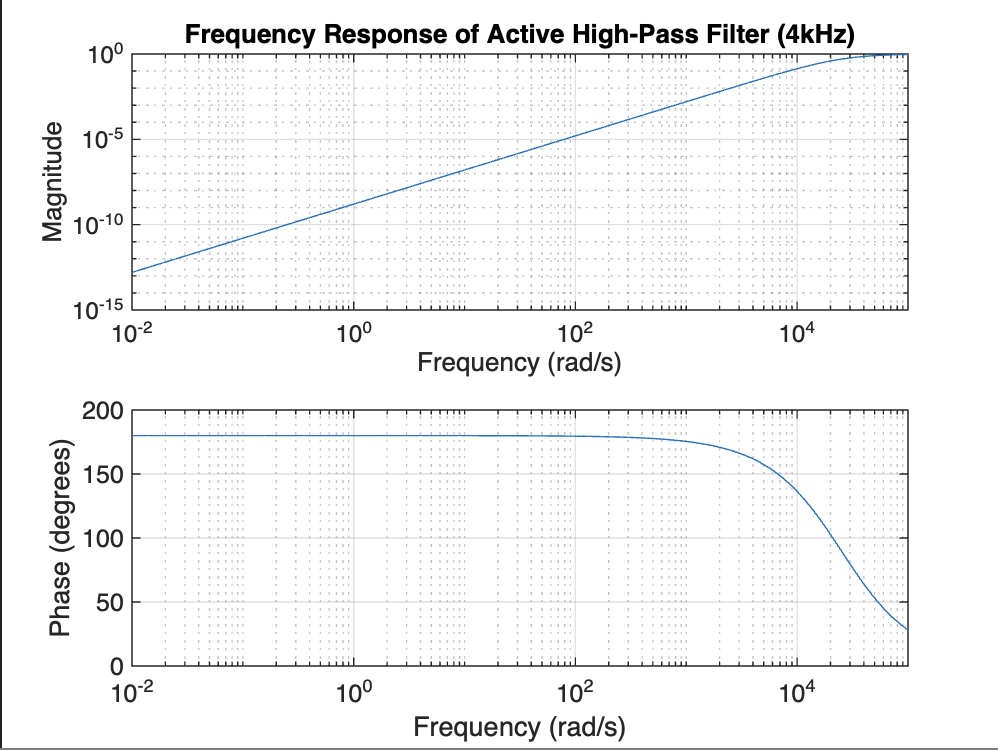
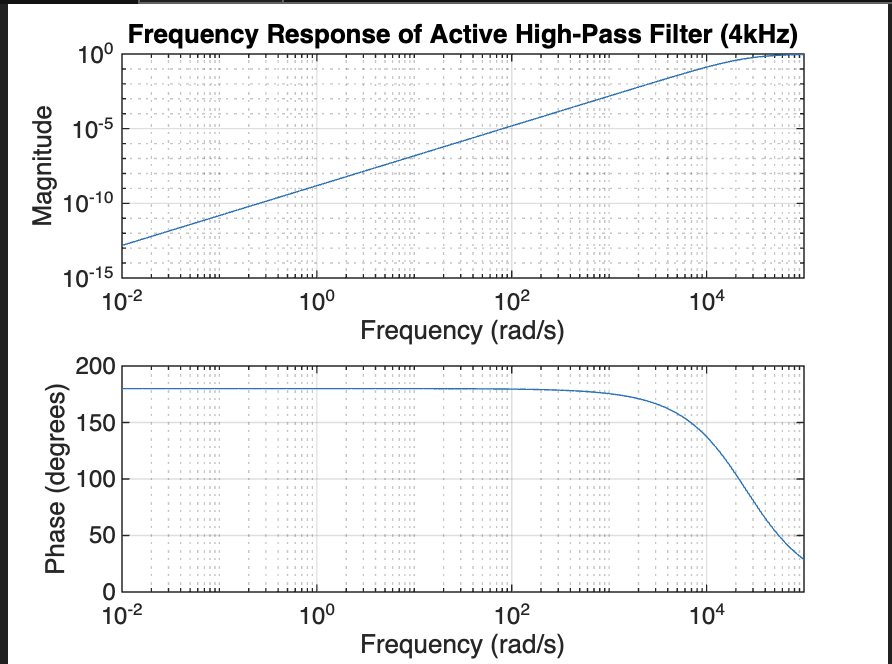
Change R1 & R2 in HPF due to  Lab equipment

diff --git a/Active-High-Pass-Filter/hpf.m b/Active-High-Pass-Filter/hpf.m
@@ -3,8 +3,8 @@ clear;
 close all;
 
 
-R1 = 400;   % 400Ω
-R2 = 400;   % 400Ω
+R1 = 390;   % 390Ω
+R2 = 390;   % 390Ω
 R3 = 10e3;  % 10kΩ (For Op-Amp feedback)
 R4 = 10e3;  % 10kΩ (For Op-Amp feedback)
 C1 = 0.1e-6; % 0.1µF (100nF)
@@ -24,7 +24,7 @@ bode(H);
 grid on;
 title('Bode Plot of Active High-Pass Filter (4kHz)');
 
-% Frequency Response (Magnitude Plot)
+%  (Magnitude Plot)
 figure;
 freqs([R1 * R2 * C1 * C2, 0, 0], [R1 * R2 * C1 * C2, (R1 + R2) * C1, 1]);
 grid on;

diff --git a/Active-High-Pass-Filter/README.md b/Active-High-Pass-Filter/README.md
@@ -8,8 +8,8 @@ clear;
 close all;
 
 
-R1 = 400;   % 400Ω
-R2 = 400;   % 400Ω
+R1 = 390;   % 390Ω
+R2 = 390;   % 390Ω
 R3 = 10e3;  % 10kΩ (For Op-Amp feedback)
 R4 = 10e3;  % 10kΩ (For Op-Amp feedback)
 C1 = 0.1e-6; % 0.1µF (100nF)
@@ -29,7 +29,7 @@ bode(H);
 grid on;
 title('Bode Plot of Active High-Pass Filter (4kHz)');
 
-% Frequency Response (Magnitude Plot)
+%  (Magnitude Plot)
 figure;
 freqs([R1 * R2 * C1 * C2, 0, 0], [R1 * R2 * C1 * C2, (R1 + R2) * C1, 1]);
 grid on;
@@ -45,6 +45,11 @@ title('Step Response of Active High-Pass Filter (4kHz)');
 <br>
 <br>
 
+<img src="./img/hpfcode.png">
+
+<br>
+<br>
+<br>
 
 <img src="./img/hpf1.png">
 
